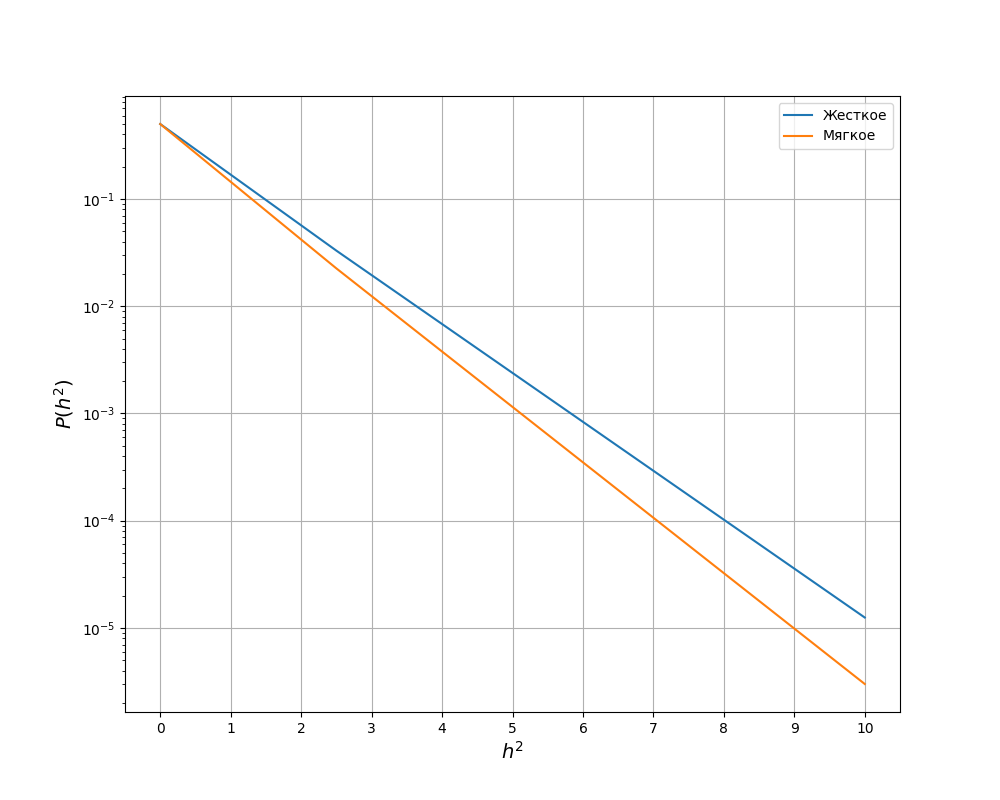
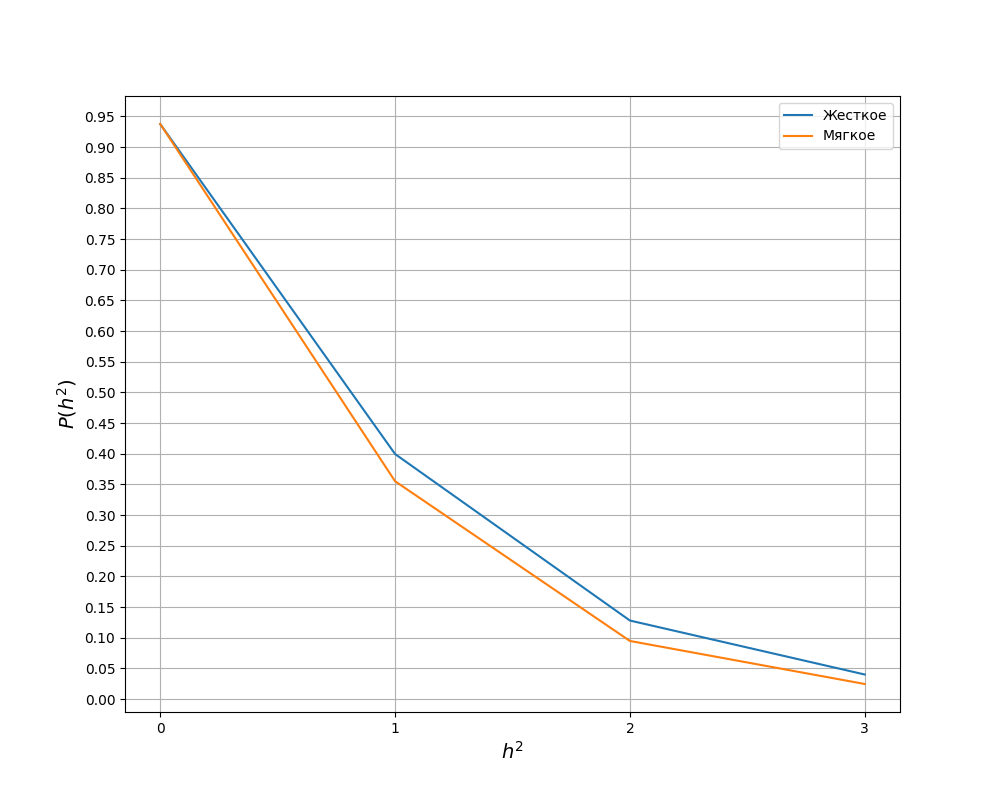
25.05.2022

diff --git a/vector_my_hamming_ofm.cpp b/vector_my_hamming_ofm.cpp
@@ -186,26 +186,28 @@ std::vector<std::vector<uint32_t>> Demodulation (const std::vector<std::vector<s
 
 
 std::vector<std::vector<uint32_t>> Decoding(const std::vector<std::vector<uint32_t>>& in_code_sequences , const std::vector<std::vector<double>>& probability_of_received_bits) {
-	std::vector<std::vector<uint32_t>> in_bits (in_code_sequences.size(), std::vector<uint32_t> (4));
-	std::vector<std::vector<uint32_t>> all_states = PossibleStates(in_code_sequences[0].size(), in_bits[0].size());
+	std::vector<std::vector<uint32_t>> in_bits (in_code_sequences.size(), std::vector<uint32_t> (7));
+	std::vector<std::vector<uint32_t>> all_states = PossibleStates(in_code_sequences[0].size(), 4);
 	std::vector<double> sequences_probability (all_states.size());
 	for (size_t i = 0; i < in_code_sequences.size(); ++i) {
 		for (size_t j = 0; j < all_states.size(); ++j) {
 			sequences_probability[j] = SequenceProbability(in_code_sequences[i], probability_of_received_bits[i], all_states[j]);
 		}
-		cout << "Вероятность кодовой комбинации" << endl;
-		PrintVector(sequences_probability);
 		uint32_t element_with_maximum_probability = std::distance(sequences_probability.begin(), (std::max_element(sequences_probability.begin(), sequences_probability.end())));
-		std::copy(all_states[element_with_maximum_probability].begin(), all_states[element_with_maximum_probability].begin() + in_bits[0].size(), in_bits[i].begin());
+		//cout << "Вероятность комбинации" << endl;
+		//PrintVector(sequences_probability);
+		//cout << element_with_maximum_probability << endl;
+		//std::copy(all_states[element_with_maximum_probability].begin(), all_states[element_with_maximum_probability].begin() + in_bits[0].size(), in_bits[i].begin());
+		in_bits[i] = all_states[element_with_maximum_probability];
 	}
 	return in_bits;
 }
 
 bool ModTwoAddVectors(const std::vector<uint32_t>& vec1, const std::vector<uint32_t> vec2) {
-	for (size_t i = 0; i < vec1.size(); ++i) {
-			if (vec1[i] != vec2[i]) {
-				return true;
-			}
+	for (size_t i = 0; i < vec2.size(); ++i) {
+		if (vec1[i + 1] != vec2[i]) {
+			return true;
+		}
 	}
 	return false;
 }
@@ -219,7 +221,7 @@ double CheckError(const std::vector<std::vector<uint32_t>>& out_bits, const std:
 }
 
 int main () {
-	uint32_t block = 1;
+	uint32_t block = 1000000;
 	std::vector<std::vector<uint32_t>> out_bits (block, std::vector<uint32_t> (4));
 	for (std::vector<uint32_t>& bits : out_bits) {
 		RandBits(bits);
@@ -228,31 +230,18 @@ int main () {
 	std::vector<double> A = {0, sqrt(2), 2, sqrt(6)};
 	std::vector<double> d = {0, 1.5, 4.35, 9.25};
 	std::vector<double> errs (4);
-	cout << "Кодовая комбинация" << endl;
-	Print2dVector(out_code_sequences);
 	for (size_t i = 0; i < A.size(); ++i) {
 		cout << "Отношение сигнал/шум: " << i << endl;
 		std::vector<std::vector<std::complex<double>>> signal =  Modulation(out_code_sequences, A[i]);
 		std::vector<std::vector<std::complex<double>>> signal_with_noise = AddNormalNoise(signal);
 		std::vector<std::vector<double>> bit_reliability (block, std::vector<double> (7));
 		std::vector<std::vector<uint32_t>> in_code_sequences = Demodulation(signal_with_noise, bit_reliability, d[i], A[i]);
-		cout << "Надежность битов" << endl;
-		Print2dVector(bit_reliability);
+//		cout << "Надежность битов" << endl;
+//		Print2dVector(bit_reliability);
 		std::vector<std::vector<uint32_t>> in_bits = Decoding(in_code_sequences, bit_reliability);
-		errs[i] = CheckError(out_bits, in_bits);
-		cout << endl;
-//		std::cout << CheckError(out_bits, in_bits) << std::endl;
+		errs[i] = CheckError(out_code_sequences, in_bits);
+		cout << "Ошибок:" << errs[i] << endl;
 	}
-//	WriteToTxt(errs, "errs_vector_my.txt");
-//	std::vector<std::vector<std::complex<double>>> signal =  Modulation(out_code_sequences, A);
-//	std::vector<std::vector<std::complex<double>>> signal_with_noise = AddNormalNoise(signal);
-//	std::vector<std::vector<double>> bit_reliability (block, std::vector<double> (7));
-//	std::vector<std::vector<uint32_t>> in_code_sequences = Demodulation(signal_with_noise, bit_reliability, d, A);
-//	std::vector<std::vector<uint32_t>> in_bits = Decoding(in_code_sequences, bit_reliability);
-//	std::cout << CheckError(out_bits, in_bits) << std::endl;
-//	Print2dVector(out_code_sequences);
-//	Print2dVector(in_code_sequences);
-//	Print2dVector(out_bits);
-//	Print2dVector(in_bits);
+	WriteToTxt(errs, "errs_vector_my.txt");
 	return 0;
 }

diff --git a/vector_hamming_ofm.cpp b/vector_hamming_ofm.cpp
@@ -154,25 +154,15 @@ int main () {
 		RandBits(bits);
 	}
 	std::vector<std::vector<uint32_t>> out_code_sequences = Coding(out_bits);
-	std::vector<uint32_t> h = {0, 1, 2, 3};
+	std::vector<double> A = {0, sqrt(2), 2, sqrt(6)};
 	std::vector<double> errs (4);
-	double A;
-	for (size_t i = 0; i < h.size(); ++i) {
-		A = sqrt(h[i]);
-		std::vector<std::vector<std::complex<double>>> signal =  Modulation(out_code_sequences, A);
+	for (size_t i = 0; i < A.size(); ++i) {
+		std::vector<std::vector<std::complex<double>>> signal =  Modulation(out_code_sequences, A[i]);
 		std::vector<std::vector<std::complex<double>>> signal_with_noise = AddNormalNoise(signal);
 		std::vector<std::vector<uint32_t>> in_code_sequences = Demodulation(signal_with_noise);
 		errs[i] = CheckError(out_code_sequences, in_code_sequences);
-		std::cout << CheckError(out_code_sequences, in_code_sequences) << std::endl;
+		std::cout << "Ошибок:" << CheckError(out_code_sequences, in_code_sequences) << std::endl;
 	}
-	WriteToTxt(errs, "err_vector.txt");
-//	std::vector<std::vector<std::complex<double>>> signal =  Modulation(out_code_sequences, A);
-//	std::vector<std::vector<std::complex<double>>> signal_with_noise = AddNormalNoise(signal);
-//	std::vector<std::vector<uint32_t>> in_code_sequences = Demodulation(signal_with_noise);
-//	std::cout << CheckError(out_code_sequences, in_code_sequences) << std::endl;
-//	Print2dVector(out_code_sequences);
-//	Print2dVector(in_code_sequences);
-//	Print2dVector(out_bits);
-//	Print2dVector(in_bits);
+	WriteToTxt(errs, "errs_vector.txt");
 	return 0;
 }
